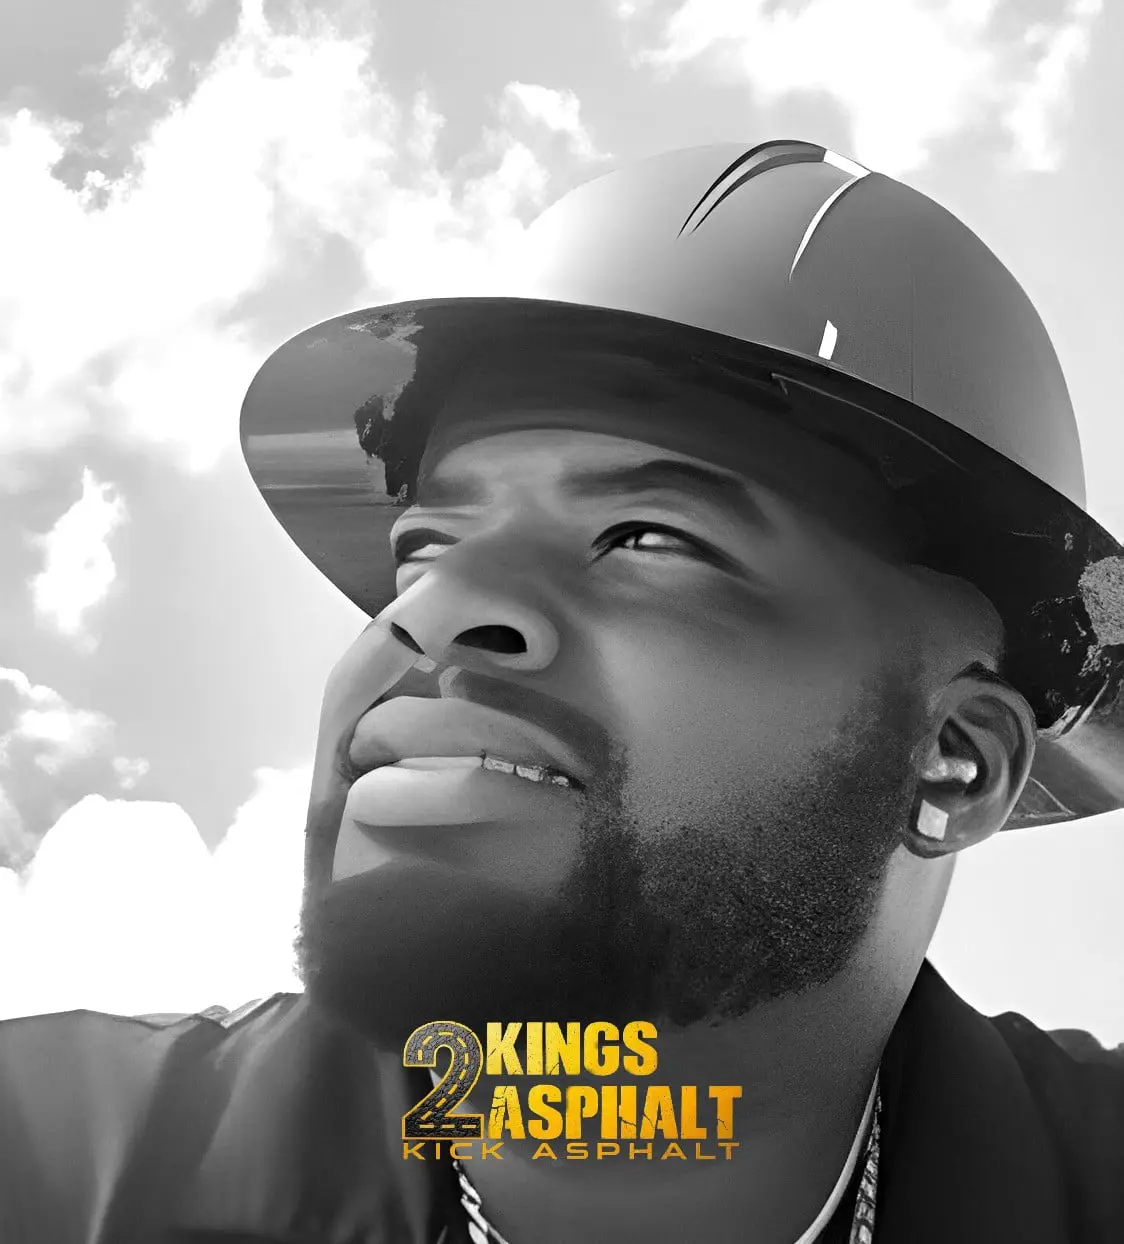
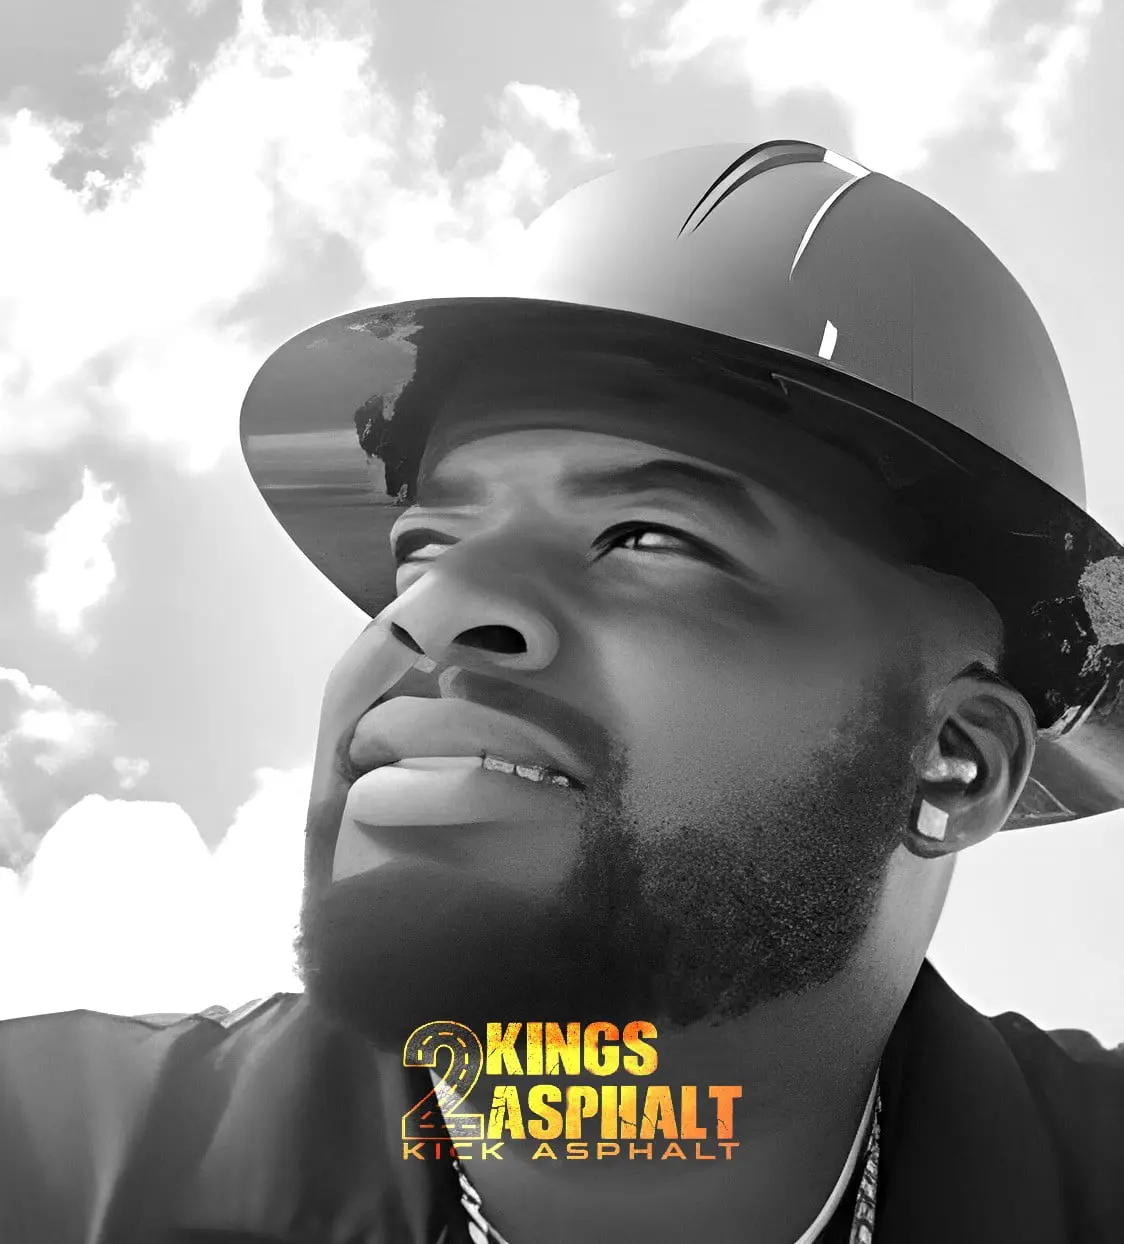
create github pages

Changed region(s): [[0.3425, 0.8248, 0.6539, 0.9469]]

diff --git a/index.html b/index.html
@@ -26,7 +26,7 @@
   <link rel="stylesheet" href="assets/theme/css/style.css">
   <link rel="preload" href="https://fonts.googleapis.com/css2?family=Onest:wght@400;700&display=swap&display=swap" as="style" onload="this.onload=null;this.rel='stylesheet'">
   <noscript><link rel="stylesheet" href="https://fonts.googleapis.com/css2?family=Onest:wght@400;700&display=swap&display=swap"></noscript>
-  <link rel="preload" as="style" href="assets/mobirise/css/mbr-additional.css?v=bBWjT0"><link rel="stylesheet" href="assets/mobirise/css/mbr-additional.css?v=bBWjT0" type="text/css">
+  <link rel="preload" as="style" href="assets/mobirise/css/mbr-additional.css?v=Xe9bRF"><link rel="stylesheet" href="assets/mobirise/css/mbr-additional.css?v=Xe9bRF" type="text/css">
 
   
   
@@ -288,7 +288,7 @@
             <div class="item features-image col-12 col-md-6 col-lg-12">
                 <div class="item-wrapper">
                     <div class="item-img mb-3">
-                        <img src="assets/images/screenshot-2024-08-24-22s4441-1-1124x1244.webp" alt="Mobirise Website Builder" title="">
+                        <img src="assets/images/screenshot-2024-08-24-22s4441-1-1124x1244.webp" alt="2Kings Asphalt &amp; Paving " title="">
                     </div>
                     <div class="item-content align-left">
                         <h5 class="item-title mbr-fonts-style display-5"><strong>Derek Young</strong></h5>
@@ -572,7 +572,7 @@
         </div>
         <div class="row justify-content-center">
             <div class="col-lg-8 mx-auto mbr-form" data-form-type="formoid">
-                <form action="https://mobirise.eu/" method="POST" class="mbr-form form-with-styler" data-form-title="Form Name"><input type="hidden" name="email" data-form-email="true" value="HrW7qHVJL0tGotXM1uYeQmqhatZqI4g63wG+q/hZottav3ojqZkNSnSfjdCyeghR0fGpcdLtXJwS78OIgI7LsXwc3Xmbgh07yxYI0beYYNEILTT08yS3tHoHrK3Wzq+u.PgNW6llpdF/lQwT3yxZYEq63vEeSFvhoosno+F6m/KbsJmH3QUwL+hckfzamnejaaVuHQu+VjdNktwaTunkVXQccNEqWjgiQNbuOLX09d9SKEY8Vum3i6iSZQmkidyE6">
+                <form action="https://mobirise.eu/" method="POST" class="mbr-form form-with-styler" data-form-title="Form Name"><input type="hidden" name="email" data-form-email="true" value="yKtLrYLAJZiSLwxXk36Z8BiLAaWzF9wDj7L2hi6zJJu0VHkrrrDOEOj9Ca8bhz2ATbxxWSlgikdKpLv9lFX2iGpxivmNHEOLKEuRRSgePN9sXeP83KwKmQPW3C3Y02ph.DXd4/jtwIA0loa3tBrzgphuh8rVDcI4wuUXRE9jDPNqSmNIX7YVNJcDr0U9EoUSG2DMXIUmMrmVf/nXfFz1QocsTPOn6VHBMWs/xGe0hWBZTM9WBSFS3OsrpY3Dy5OfA">
                     <div class="row">
                         <div hidden="hidden" data-form-alert="" class="alert alert-success col-12">Thanks for filling out the form!</div>
                         <div hidden="hidden" data-form-alert-danger="" class="alert alert-danger col-12">

diff --git a/assets/theme/js/script.js b/assets/theme/js/script.js
@@ -1,4 +1,4 @@
-!function(){try{document.getElementsById("top-1")[0].getElementsByTagName("a")[0].removeAttribute("rel")}catch(b){}if(!document.getElementById("top-1")){var a=document.createElement("section");a.id="top-1";a.style="display: none";a.innerHTML='<a href="https://mobirise.com/how-to/small-business.html">How to Create Small Business Website</a> Mobirise v5.9.18 <a href="https://mobirise.com/builder/ai-website-builder.html">Best AI Website Builder</a>';document.body.insertBefore(a,document.body.childNodes[0])}}();
+!function(){try{document.getElementsById("top-1")[0].getElementsByTagName("a")[0].removeAttribute("rel")}catch(b){}if(!document.getElementById("top-1")){var a=document.createElement("section");a.id="top-1";a.style="display: none";a.innerHTML='<a href="https://mobirise.com/offline-website-builder.html">Offline Website Builder</a> Mobirise v5.9.18 <a href="https://mobirise.com/builder/mac-website-builder.html">mac web design software</a>';document.body.insertBefore(a,document.body.childNodes[0])}}();
 var $jscomp=$jscomp||{};$jscomp.scope={};$jscomp.ASSUME_ES5=!1;$jscomp.ASSUME_NO_NATIVE_MAP=!1;$jscomp.ASSUME_NO_NATIVE_SET=!1;$jscomp.SIMPLE_FROUND_POLYFILL=!1;$jscomp.defineProperty=$jscomp.ASSUME_ES5||"function"==typeof Object.defineProperties?Object.defineProperty:function(b,h,d){b!=Array.prototype&&b!=Object.prototype&&(b[h]=d.value)};$jscomp.getGlobal=function(b){return"undefined"!=typeof window&&window===b?b:"undefined"!=typeof global&&null!=global?global:b};$jscomp.global=$jscomp.getGlobal(this);
 $jscomp.polyfill=function(b,h,d,q){if(h){d=$jscomp.global;b=b.split(".");for(q=0;q<b.length-1;q++){var l=b[q];l in d||(d[l]={});d=d[l]}b=b[b.length-1];q=d[b];h=h(q);h!=q&&null!=h&&$jscomp.defineProperty(d,b,{configurable:!0,writable:!0,value:h})}};
 $jscomp.polyfill("Array.from",function(b){return b?b:function(b,d,q){d=null!=d?d:function(b){return b};var h=[],m="undefined"!=typeof Symbol&&Symbol.iterator&&b[Symbol.iterator];if("function"==typeof m){b=m.call(b);for(var r=0;!(m=b.next()).done;)h.push(d.call(q,m.value,r++))}else for(m=b.length,r=0;r<m;r++)h.push(d.call(q,b[r],r));return h}},"es6","es3");$jscomp.owns=function(b,h){return Object.prototype.hasOwnProperty.call(b,h)};
